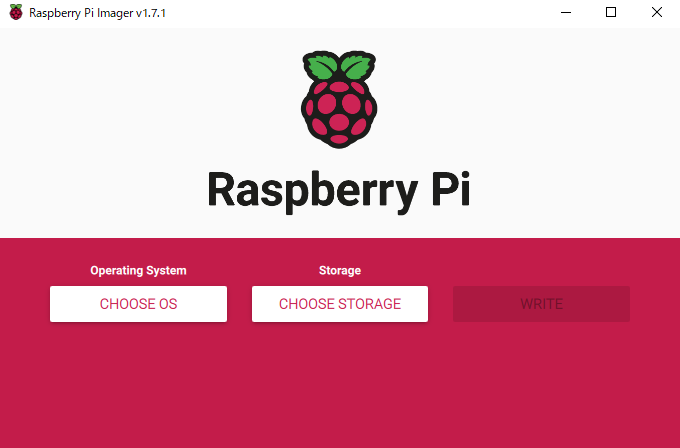
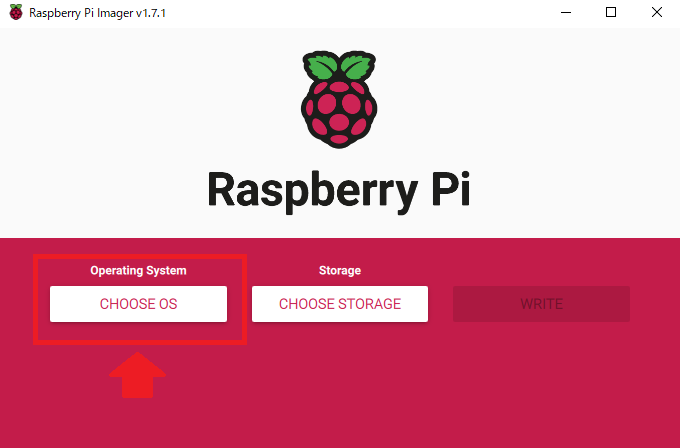
テスト

Changed region(s): [[0.0309, 0.5625, 0.3706, 0.9062]]

diff --git a/readme.md b/readme.md
@@ -1,21 +1,49 @@
 # Raspbeery Pi OSインストール方法  
+## OSのインストール方法
+- Raspberry Piに使用するSDカードを自分のPCに接続  
 
-
-- OSを書き込むためのソフトを以下のURLからインストールする。  
+- インストーラを以下のURLからダウンロードする。  
 https://www.raspberrypi.com/software/  
-<img alt="OSインストーラ画像" src="./img/OSインストールページ.png" width="700" height="400">
+<img alt="OSインストーラ画像" src="./img/OSインストールページ.png" width="700" height="400">  
 
+- ダウンロードしたインストーラ（imager_1.7.1.exe）を起動し、インストールを行う。
+- Raspberry Pi Imagerが起動したら、「CHOOSE OS」をクリック。  
 <img alt="OSインストーラ画像" src="./img/OS%E3%82%A4%E3%83%B3%E3%82%B9%E3%83%88%E3%83%BC%E3%83%A9.png" width="300" height="200">
+- 「Operating System」から一番上を選択。  
+<img alt="OSインストーラ画像" src="./img/スクリーンショット 2022-03-28 103252.png" width="300" height="200">
+- 次に「Storage」を選択。  
+<img alt="OSインストーラ画像" src="./img/スクリーンショット 2022-03-28 104434.png" width="300" height="200">
+- PCに接続したSDカードを選択。  
+<img alt="OSインストーラ画像" src="./img/スクリーンショット 2022-03-28 104702.png" width="300" height="200">
+- 「WRITE」を選択して、書き込みを行う。(10分ほど掛かります)  
+<img alt="OSインストーラ画像" src="./img/スクリーンショット 2022-03-28 105111.png" width="300" height="200">
+<img alt="OSインストーラ画像" src="./img/スクリーンショット 2022-03-28 105257.png" width="300" height="200">
 
+## Wifi設定の手順
+- SDカードに書き込みが終わった後、（今回は）Dドライブ直下に「ssh」という空のファイルを新規作成。  
+<img alt="OSインストーラ画像" src="./img/スクリーンショット 2022-03-28 110757.png" width="300" height="200">
+- 同様のディレクトリにテキストを新規作成し、内容を編集し「wpa_supplicant.conf」という名前で保存。  
+編集内容は以下の通り
 ```
-CHOOSE OS→一番上→Strage→選択→Write  
-```  
+ctrl_interface=DIR=/var/run/wpa_supplicant GROUP=netdev
+update_config=1
+country=JP
 
-- SDカードに書き込みが終わった後  
-  - sshという空のファイルをDドライブ直下に作成
-  - wpa_supplicant.confを編集して、使用するWi-fiのSSIDとPWを入力し、Dドライブ直下におく  
-- 出来たらラズパイにSDカードを入れて電源をつける
-- ラズパイのIPアドレスを調べる  
+network={
+        ssid="1つ目のSSID"
+        psk="1つ目のSSIDのパスワード"
+        key_mgmt=WPA-PSK
+}
+```
+<img alt="OSインストーラ画像" src="./img/スクリーンショット 2022-03-28 111544.png" width="300" height="200">  
+
+## Raspberry Pi OS設定  
+- 上記の手順が終われば、自分のPCからSDカードを抜いて、Raspberry PiにSDカードを入れる。   
+- Raspberry Piの電源をつける。  
+- 【参考：Raspberry PiのIPアドレスの調べ方】  
+  - 自分のPCとRaspberry Piが同じネットワークに接続されていれば  
+    Windowsのコマンドプロンプトから「arp -a」で43.125
+
   - 自分のネットワークから接続しているIPアドレスを調べるコマンド  
    コマンドプロンプトで　arp -a
 - テラタームからSSHで接続出来たら
